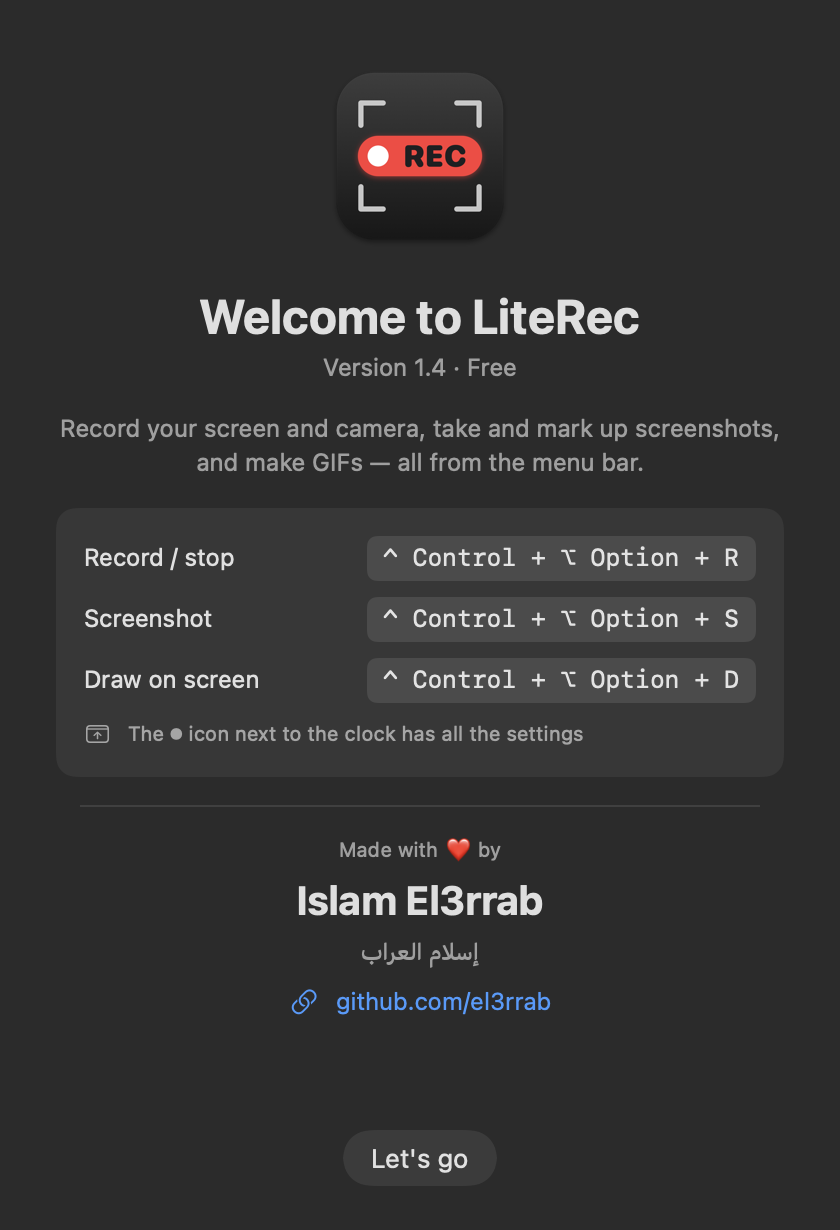
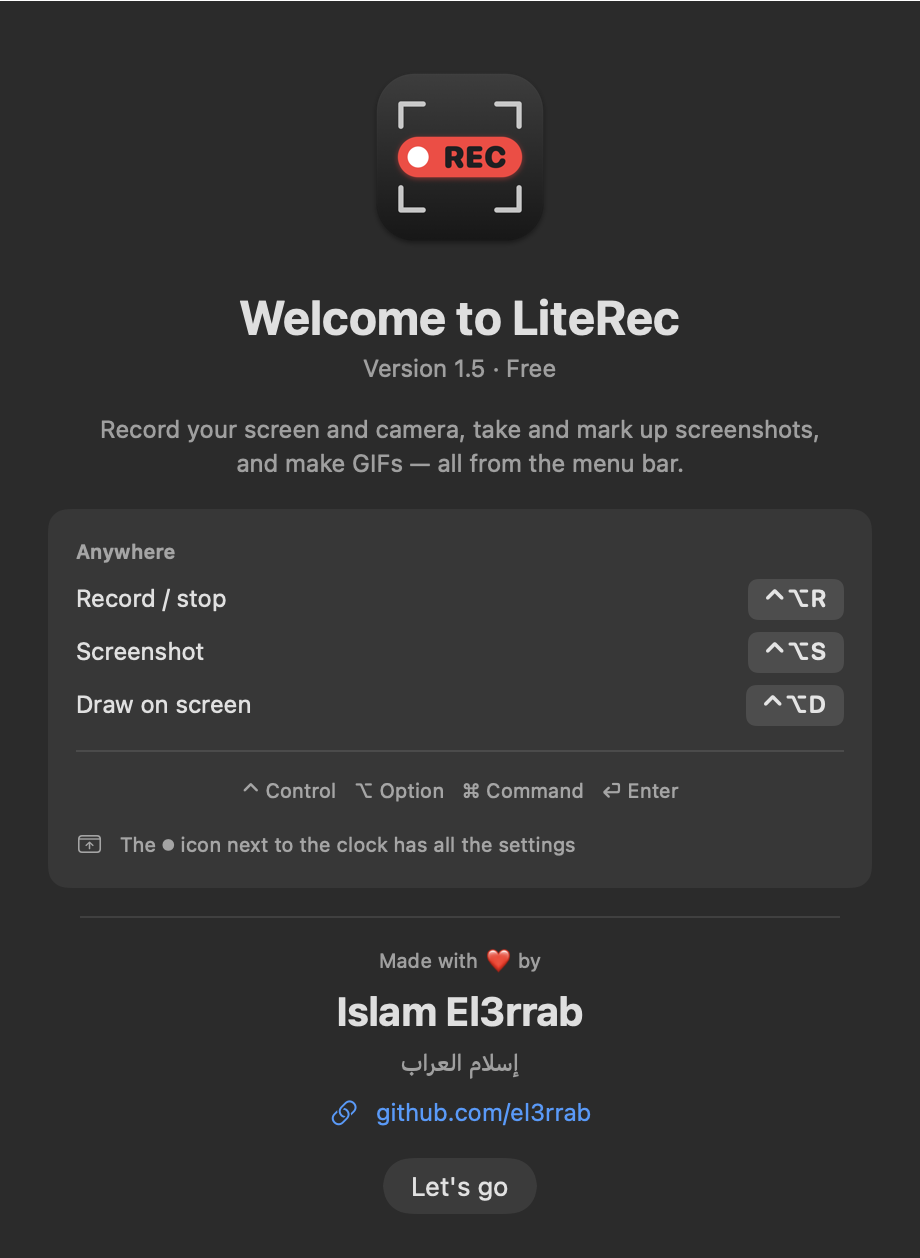
LiteRec 1.5 page

diff --git a/index.html b/index.html
@@ -42,7 +42,7 @@
   "description": "Free screen and camera recorder for Mac: record screen, webcam and system audio, annotated screenshots, draw on screen, trim and GIF.",
   "operatingSystem": "macOS 15 or later",
   "applicationCategory": "MultimediaApplication",
-  "softwareVersion": "1.4",
+  "softwareVersion": "1.5",
   "url": "https://el3rrab.github.io/literec-app/",
   "downloadUrl": "https://github.com/el3rrab/literec-app/releases/latest/download/LiteRec.dmg",
   "image": "https://el3rrab.github.io/literec-app/assets/og.png",
